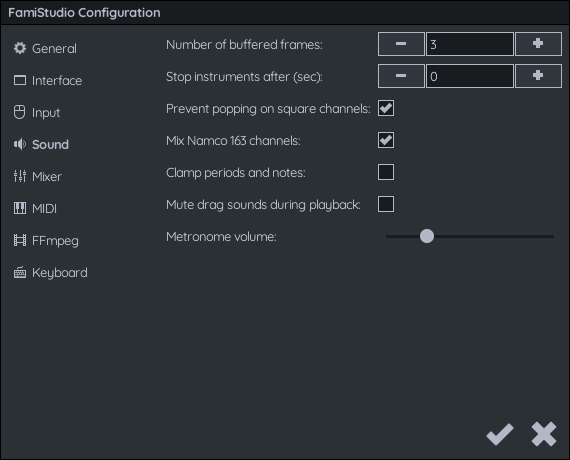
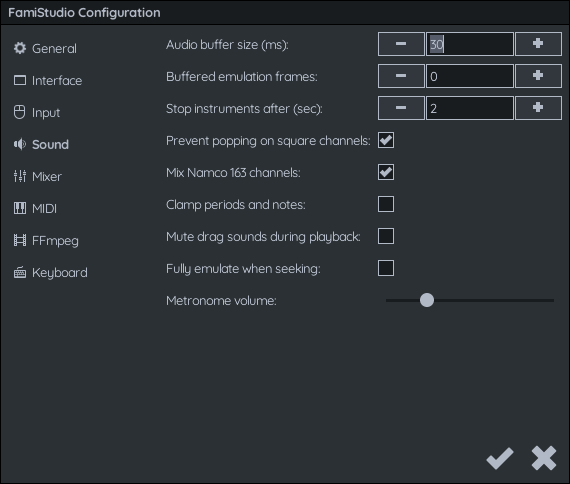
Partial doc update. More coming.

diff --git a/Docs/docs/pianoroll.md b/Docs/docs/pianoroll.md
@@ -254,30 +254,17 @@ On mobile, the same functionality is accessible by long pressing on the "Delete"
 
 ![](images/MobileDeleteSpecial.png#center)
 
-## Editing volume & effects
+## Editing Effects
 
-The effect panel can be opened by clicking the little triangle at the top-left of the piano roll. 
+The effect panel can be opened by clicking the little triangle at the top-left of the piano roll. On mobile you select the effect you want to edit using the [Quick Access Bar](basics.md#quick-access-bar-mobile-only) when in the Piano Roll.
 
-Here is the list of effects currently supported, note that not every effect is available on every channel:
+Effects are edited by selecting and effect and dragging up or down to change the value. Double-clicking on an effect value deletes it. For effects that have huge values (such as FDS Depth), they may change in a logarithmic way. You can also hold Shift to fine tune the exact value (a movement of 1 pixel will change the value by 1).
 
-* **Volume**: The overall volume of the channel.
-* **Vib Speed**: Vibrato speed, used in conjunction with vibrato depth to create a vibrato effect.
-* **Vib Depth**: Vibrato depth, used in conjunction with vibrato speed to create a vibrato effect.
-* **Pitch**: Allow tweaking the fine-pitch of a channel.
-* **Duty Cycle** : Allow changing the duty cycle of an instrument without using a duty cycle envelope (only instruments with no duty cycle envelopes will use the specified value).
-* **FDS Speed**: Famicom Disk System audio modulation speed (FDS audio expansion only).
-* **FDS Depth**: Famicom Disk System audio modulation depth (FDS audio expansion only).
-* **Speed**: Changes the speed of the song (FamiTracker tempo mode only)
-* **Note Delay**: Number of frames to delay the current note (FamiTracker tempo mode only)
-* **Cut Delay**: Stop the note after the specified number of frames (FamiTracker tempo mode only)
-
-Effects are edited by selecting and effect and dragging up or down to change the value. Right-clicking on an effect value deletes it. 
-
-For effects that have huge values (such as FDS Depth), you can hold Shift to fine tune the exact value (a movement of 1 pixel will change the value by 1).
+Here are all the effects that are supported, note that not every effect is available on every channel. Some are even specific to certain expansions or tempo modes.
 
 ![](images/VolumeTrack.png#center)
 
-### Volume track
+### Volume 
 
 The volume tracks dictates how loud the current channel should play. This volume is combined with volume envelope by multiplication (50% volume track x 50% envelope volume = 25% total volume). It is much more efficient to use volume envelopes wherever possible and only use volume tracks to control the global volume of the song.
 
@@ -293,11 +280,32 @@ On mobile, a volume slide is created by long pressing on a volume value and sele
 
 ![](images/MobileVolumeSlide.gif#center)
 
-### Vibrato depth & speed
+### Vibrato Depth & Speed
 
 Vibrato depth and speed are used to add vibrato to a portion of the song without having to bother creating a new instrument. Please note that vibrato will temporarily override any pitch envelope on the current instrument. When vibrato is disabled (by setting depth or speed, or both to zero), the instrument will essentially have no pitch envelope until a new note is played.
 
-The depth values for the vibrato are identical to FamiTracker but the speeds are slightly different. The way FamiTracker implements vibrato, while clever, is flawed as it undersamples the vibrato curve at high speed, leading to aliasing which ends up with a low-frequency tone that has a "ringing" sound to it. Please see the [Export](export.md) page for a table that maps between FamiStudio and FamiTracker.
+The depth values for the vibrato are identical to FamiTracker but the speeds are slightly different. Please see the [Export](export.md) page for a table that maps between FamiStudio and FamiTracker.
+
+In its current implementation, changing the speed/depth of the vibrato is likely to result in a "pop" since it will restart the vibrato envelope, a sine wave, from the start. That being said, if you want to do it, it is possible if you carefully take the number of frames of a full cycle into account and change it at the exact right time. It will be tedious to setup, but it can be done.
+
+Here is a table the period (in frame) for each value of the vibrato speed effect.
+
+Vibrato Speed | Period (in frames)
+--- | ---
+1 | 64
+2 | 32
+3 | 21
+4 | 16
+5 | 13
+6 | 11
+7 | 9
+8 | 8
+9 | 7
+10 | 6
+11 | 5
+12 | 4
+
+For example, if you start a vibrato at speed 5, you can change it seamlessly every 13 frame since you will be at the beginning of the cycle.
 
 ### Pitch 
 
@@ -314,3 +322,31 @@ This changes the speed parameter of the FamiTracker tempo settings and is only a
 ### Note and Cut delay
 
 Note delays allows delaying the moment a note is played by a few frames while cut delay will stop a note after a few frames. This also is only available in FamiTracker tempo mode. Please refer to the [Editing Songs & Project](song.md) section for more information about tempo management.
+
+### DAC (DPCM channel only)
+
+Unique to the DPCM channel, can be used to manually set the current DAC value. Can be usefull to artifically create "pop" sounds without any samples or to slightly affect the volume of the noise/triangle channels due to the non-linear mixing of the NES/Famicom.
+
+### Phase Reset 
+
+On supported channels, will reset the phase if this effect is present. Can be used to make sure 2 channels have their waveform perfectly aligned and create creative/destructive interference. Note that is recommended to use the [Fully emulate when seeking](config.md#sound-configuration) option when working with phase reset. Note that phase resets are extremely time sensitive and may not sound exactly the same in-app and on real hardware/emulators, and the exact timing may even change in future versions.
+
+### FDS Modulation Speed / Depth (FDS expansion only)
+
+These are only available when using the FDS audio expansion. These can be used to change the modulation speed/depth. Note that instruments that use Auto-Modulation cannot have their speed changed manually. 
+
+Also, instrument will contantly reset their modulation speed/depth to the values of the instrument on every note with an attack. In other words, it will loose its effect on every note attack and will need to be re-set to override the instrument.
+
+### Env Period (Sunsoft 5B and EPSM squares only)
+
+Controls the pitch/period of the envelope for instruments that have it enabled and dont use the Auto-Pitch feature. Note that since envelope is shared accross all 3 channel, this effect may have impact on the other square channels.
+
+Also, instrument with envelope enabled will contantly reset the envelope frequency to the values of the instrument on every note with an attack. In other words, it will loose its effect on every note attack and will need to be re-set to override the instrument.
+
+### Speed (Famitracker-Tempo only)
+
+Changes the "speed" parameter of the FamiTracker tempo.
+
+### Note Delay and Cut Delay (Famitracker-Tempo only)
+
+These 2 effects are used to offset note starts and end respectively, by a specific number of frames. This is the main way to achieve frame granularity when using FamiTracker tempo. For example, a note delay of 2 will trigger that note 2 frames later than normal.

diff --git a/Docs/docs/expansion.md b/Docs/docs/expansion.md
@@ -16,7 +16,7 @@ List of expansions supported:
 
 * **Namco 163**: Adds up to 8 wavetable channels. It has 128 bytes of RAM to store all the currently used waveforms. Waveforms can be 4, 8, 16 and 32 in size. Smaller waveforms will sound worse, but you can have more of them at any given time. FamiStudio will work at its best with a sample size of 16. Also, it should be noted that for technical reasons, the more channels you add, the worse the audio quality will be. It is recommended that you use 4 channels or less, which is what most games using the expansion did.
 
-* **Sunsoft S5B**: Add 3 extra square channels with shared noise capabilities. These channels are fixed at a duty cycle of 50%. It was based off the Yamaha YM2149F. While this expansion was extremely powerful, it was only ever used in one game (Gimmick!) and this game did not make use of any advanced features of the chip. For this reason, FamiStudio (and most emulators) only support a small subset of features.
+* **Sunsoft 5B**: Add 3 extra square channels with shared noise & envelope capabilities. These channels are fixed at a duty cycle of 50%. It was based off the Yamaha YM2149F. While this expansion was extremely powerful, it was only ever used in one game (Gimmick!) and this game did not make use of any advanced features of the chip. For this reason most emulators only support a small subset of features.
 
 * **EPSM**: EPSM is not an audio expansion that ever used, or even existed in the lifetime of the NES, but rather the pet project of [Perkka](https://github.com/Perkka2/EPSM) who designed a small circuit board that can be plugged in the expansion port of the NES and controlled by it to produce sound. The expansion is based off the Yamaha YMF288 chip and adds 3 extra square channels with shared noise capabilities, 6 FM synthesis channels and 6 rhythm channels. The square are fixed at a duty cycle or 50%. Those are essentially the same as Sunsoft S5B. The FM channels are 4-OP channels that can be configured independently. The rhythm channels are 6 pre-defined drum samples.
 
@@ -51,6 +51,7 @@ VRC6 have a single extra parameter:
 
 ![](images/VRC6.png#center)
 
+Note that VRC6 expansion can be used to export to the [Rainbow Mapper](https://github.com/BrokeStudio/rainbow-net) and used with the Sound Engine. For more information, please check out the [Sound Engine](soundengine.md) documentation.
 
 ### VRC7
 
@@ -98,6 +99,9 @@ The parameters are:
 * **Mod Depth** : The depth of the modulation.
 * **Mod Delay** : A delay, in frames (1/60th of a second) before enabling modulation.
 * **Resample Period**, **Offset** and **Normalize** : See the [resampling section](#resampling-wav-files-for-n163-and-fds)
+* **Auto-Mod** and **Numerator** / **Denominator** : Toggles Auto-Modulation and allow setting a numerator/denominator fraction. 
+
+When **Auto-Mod** is enabled, the instrument will automatically compute the modulation speed as a fraction of the note's pitch. For example setting Numerator = 1 and Denominator = 4 means the modulation speed will be 1/4 of the note's pitch. Since this process involves multiplications and divisions and the NES/Famicom is ill-equipped for this kind of task, it is highly recommend that you limit yourself to simple fractions such as 1/4 and avoid things like 13/27.
 
 When changing the values of the sliders with huge values (such as the Mod Speed), you can hold Shift while dragging to fine tune the exact value.
 
@@ -126,6 +130,23 @@ The parameters are:
 * **Wave Position** : The position, in the 128 bytes of memory, of the waveform. You must manually make sure that different waveforms don't overlap.
 * **Wave Count** : The position, in the 128 bytes of memory, of the waveform. You must manually make sure that different waveforms don't overlap.
 * **Resample Period**, **Offset** and **Normalize** : See the [resampling section](#resampling-wav-files-for-n163-and-fds)
+
+### Sunsoft 5B
+
+The Sunsoft 5B expansion adds 3 square channels which can have noise and/or an envelope added to it. 
+
+For each channel, each of those features can be enabled or not:
+* Tone : If enabled, will produce a square wave with 50% duty cycle, other will output a flat value equal to the volume.
+* Noise : If enabled, will add a noise which frequency is driven by the "Noise Frequency" envelope
+* Envelope : If enabled, the volume will be entirely controlled by the envelope. You can choose various envelope shapes, some repeating and some non-repeating.
+
+One important thing to understand the noise and envelope features is that they are **shared across all 3 channels**. This mean, for example, that if an 2 instruments on different 5B channels both try to use different envelopes, they will fight against each other. The last channel will always dominate (channel 3 > channel 2 > channel 1). Also, even if 2 channels both use the same envelope with the same settings, the note attacks of both channels will reset the envelopes. 
+
+For noise, the same rule applies when it comes to its frequency. If a channel has the noise feature enable it its mixer envelope, it will set the noise frequency for **all channels that uses noise**. The last channel to be update will also have the last word.
+
+Non repeating envelope can be used to simulate note attacks, while repeating envelopes can be used to make a crude bass instrument. Instruments can opt-in the **Auto-Pitch** feature which will set the frequency of the envelope relative to the frequency of the note being played. Since the hardware uses very few bits to encode the pitch, repeating envelopes will sound out of tune if you try to play high notes. Instruments that dont opt-in the **Auto-Pitch** feature can control the pich manually on the instrument or with the **Env Period** effect track. 
+
+![](images/S5B.png#center)
 
 ### EPSM
 
@@ -157,6 +178,8 @@ Roughly speaking, the chip generates a carrier frequency, which is then modified
     * **Release Rate** : The release rate is Key off speed of the following attenuation.
     * **SSG Envelope EN** : Enable SSG Envelope.
     * **SSG Envelope** : Selection of SSG Envelope type.
+
+EPSM squares work identically to the Sunsoft 5B square channels with the exception that repeating envelopes will stay in tune a couple of octave higher due to the much higher clock of EPSM.
 
 ## Resampling WAV files for N163 and FDS
 

diff --git a/Docs/docs/basics.md b/Docs/docs/basics.md
@@ -80,7 +80,7 @@ Icon | Click Action | Additional Actions<br/>(Right click on desktop, long-press
 ![](https://raw.githubusercontent.com/BleuBleu/FamiStudio/3.3.0/FamiStudio/Resources/Redo.png#grey) | Redo | 
 ![](https://raw.githubusercontent.com/BleuBleu/FamiStudio/3.3.0/FamiStudio/Resources/Transform.png#grey) | Transform/cleanup project/songs | 
 ![](https://raw.githubusercontent.com/BleuBleu/FamiStudio/3.3.0/FamiStudio/Resources/Config.png#grey) | Application settings | 
-![](https://raw.githubusercontent.com/BleuBleu/FamiStudio/3.3.0/FamiStudio/Resources/Play.png#grey) | Play song | Opens a context menu to play from different locations or change the playback speed.
+![](https://raw.githubusercontent.com/BleuBleu/FamiStudio/3.3.0/FamiStudio/Resources/Play.png#grey) | Play song | Opens a context menu to play from different locations, change the playback speed or toggle [Fully emulate when seeking](config.md#sound-configuration)
 ![](https://raw.githubusercontent.com/BleuBleu/FamiStudio/3.3.0/FamiStudio/Resources/Rec.png#grey) | Toggle recording mode | 
 ![](https://raw.githubusercontent.com/BleuBleu/FamiStudio/3.3.0/FamiStudio/Resources/Rewind.png#grey) | Rewing to beginning | 
 ![](https://raw.githubusercontent.com/BleuBleu/FamiStudio/3.3.0/FamiStudio/Resources/Loop.png#grey) | Change looping mode | 

diff --git a/Docs/docs/config.md b/Docs/docs/config.md
@@ -96,6 +96,8 @@ The configuration dialog dialog is accessed from the toolbar.
 
 * **Mute piano roll interactions during playback** : When enabled, dragging/adding notes in the piano roll will not preview the notes when the song is playing. Some users find this distracting.
 
+* **Fully emulates when seeking** : When enabled, pressing Play will fully emulate the song from the very beginning to reach the desired play location, exactly as if it was playing for real. This is useful when using time-sensive effects such as phase resets. When this is disabled, FamiStudio takes a few shortcut to quickly play from the specified location. On CPU-intensive expansions, such as EPSM, it may take a couple of seconds before the song starts playing.
+
 * **Metronome volume** : Volume of the metronome.
 
 ## Mixer
